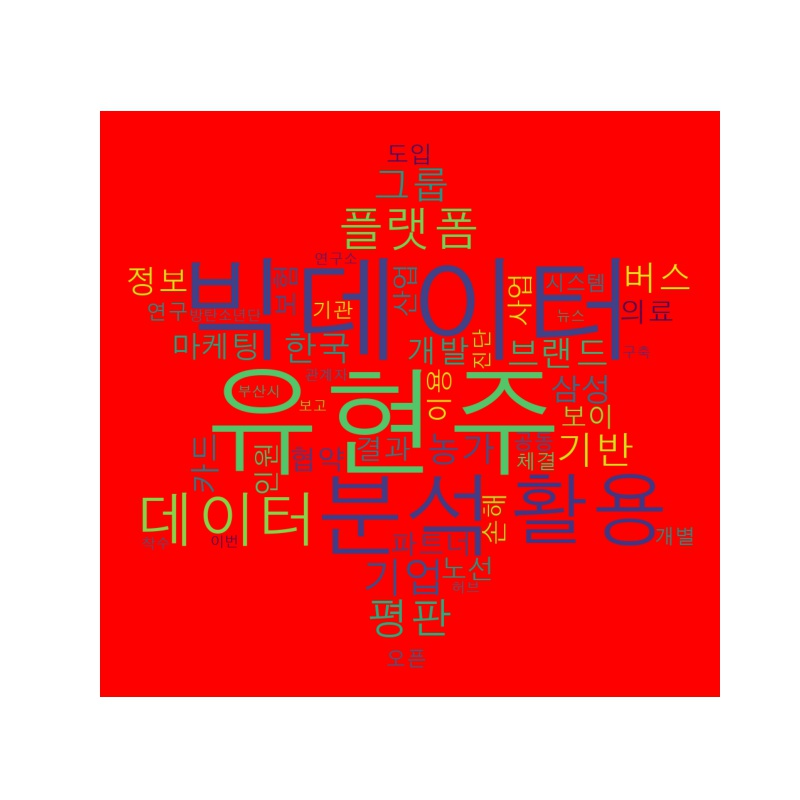
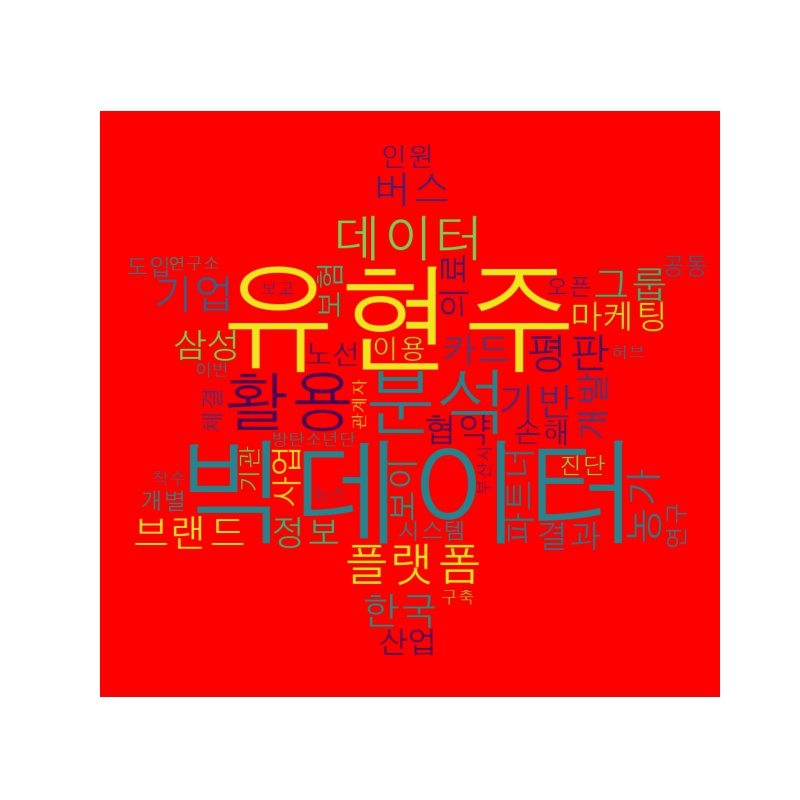
good

Changed region(s): [[0.1562, 0.1562, 0.9062, 0.8438]]

diff --git a/gsm/벅벅_시각화.py b/gsm/벅벅_시각화.py
@@ -1,0 +1,45 @@
+from  konlpy.tag import *
+import matplotlib.pyplot as plt
+from matplotlib import  font_manager , rc
+from wordcloud import WordCloud
+from collections import Counter
+
+okt=Okt()
+data1=open("C:/Users/hs46h/OneDrive/바탕 화면/동생/web_crawling_study/gsm/벅.txt").read()
+data2=okt.nouns(data1)
+
+data3=[]
+for i in data2:
+    if i=="제목":
+        data3.append(i.replace("제목","유현주"))
+    elif i=="내용":
+        data3.append(i.replace("내용","유현주"))
+    elif i=="번호":
+        data3.append(i.replace("번호"," "))
+    else:
+        data3.append(i)
+data4=Counter(data3)
+data5=data4.most_common(100)
+sword=open("C:/Users/hs46h/OneDrive/바탕 화면/동생/web_crawling_study/gsm/Data2/벅불용어.txt").read()
+data6=[each_word for each_word in data3 if each_word not in sword]
+data7=[]
+for i in data6:
+    if len(i)>=2 and len(i)<=8:
+        data7.append(i)
+data8=Counter(data7)
+data9=data8.most_common(50)
+word=dict(data9)
+print(word)
+import numpy as np
+from PIL import Image
+from wordcloud import ImageColorGenerator
+wat=np.array(Image.open("C:/Users/hs46h/OneDrive/바탕 화면/동생/web_crawling_study/gsm/Data/korea.jpg"))
+save_image=("C:/Users/hs46h/OneDrive/바탕 화면/동생/web_crawling_study/gsm/Data/wtf.jpg")
+wordcloud = WordCloud(font_path="c:\\windows\\fonts\\H2GTRM.TTF",
+                      relative_scaling=0.4,mask=wat,
+                      background_color='white').generate_from_frequencies(word)
+plt.figure(figsize=(10,10))
+plt.imshow(wordcloud)
+plt.axis('off')
+plt.savefig(save_image)
+plt.show()
